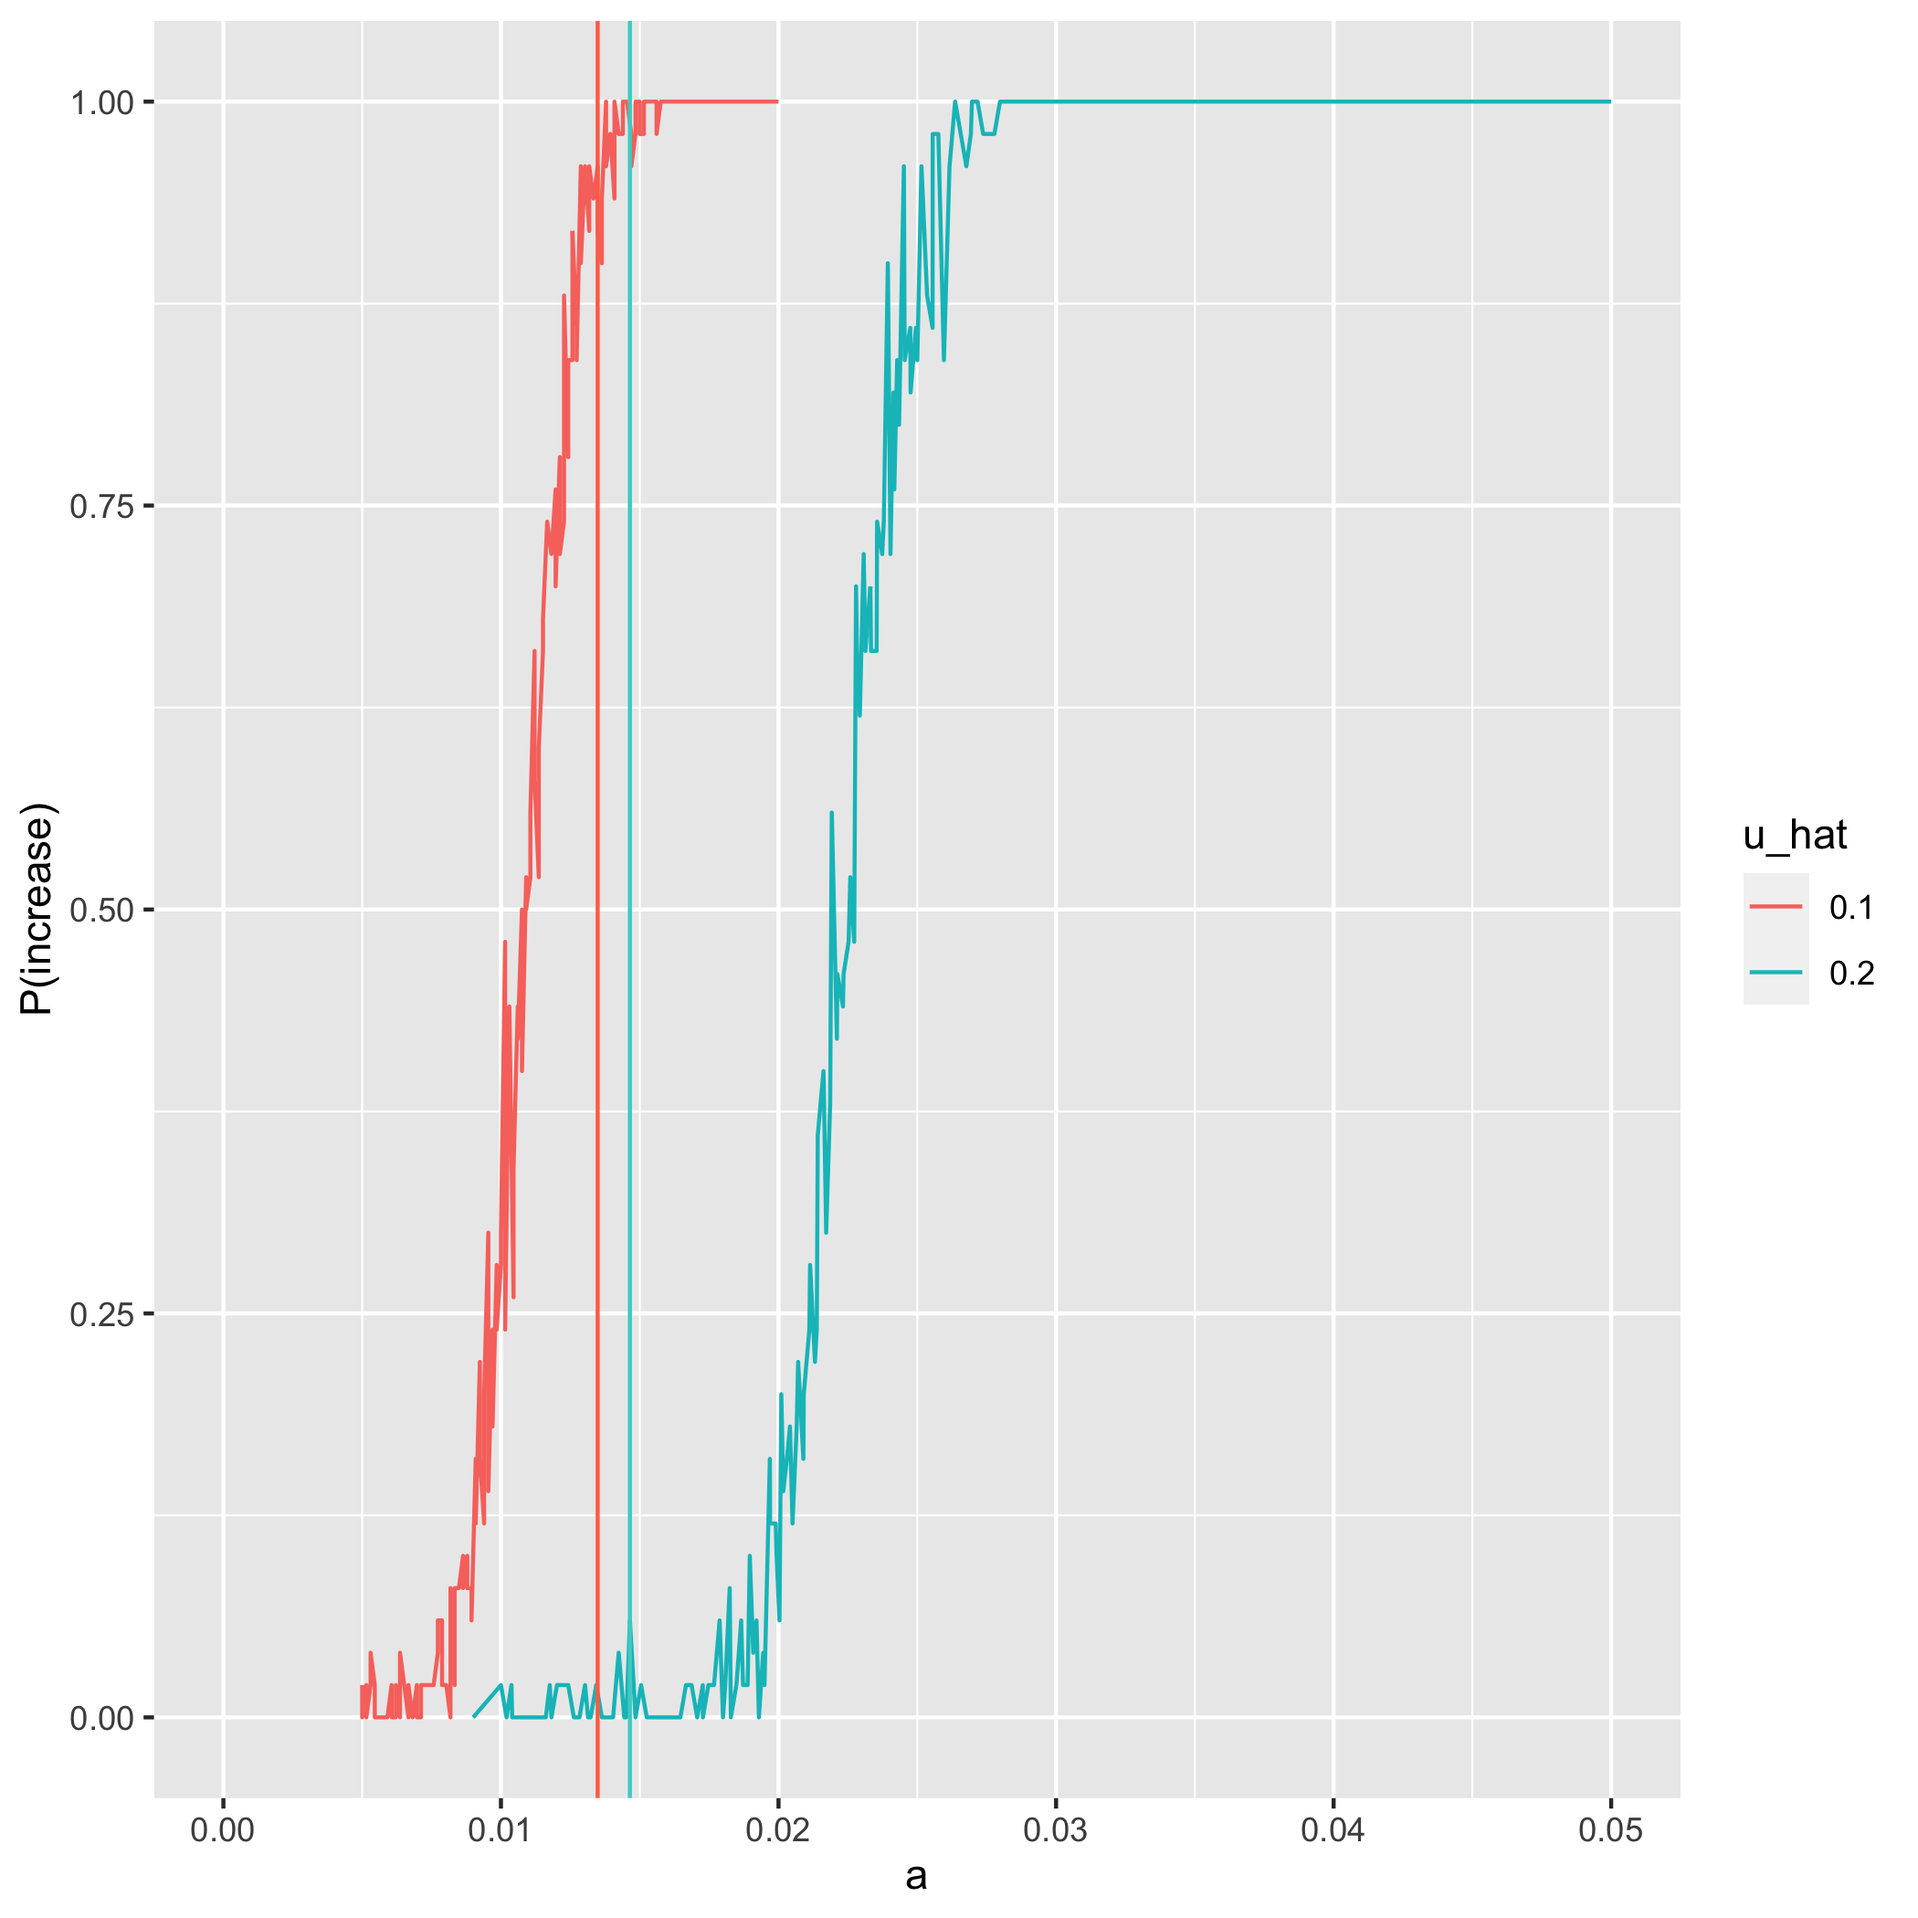
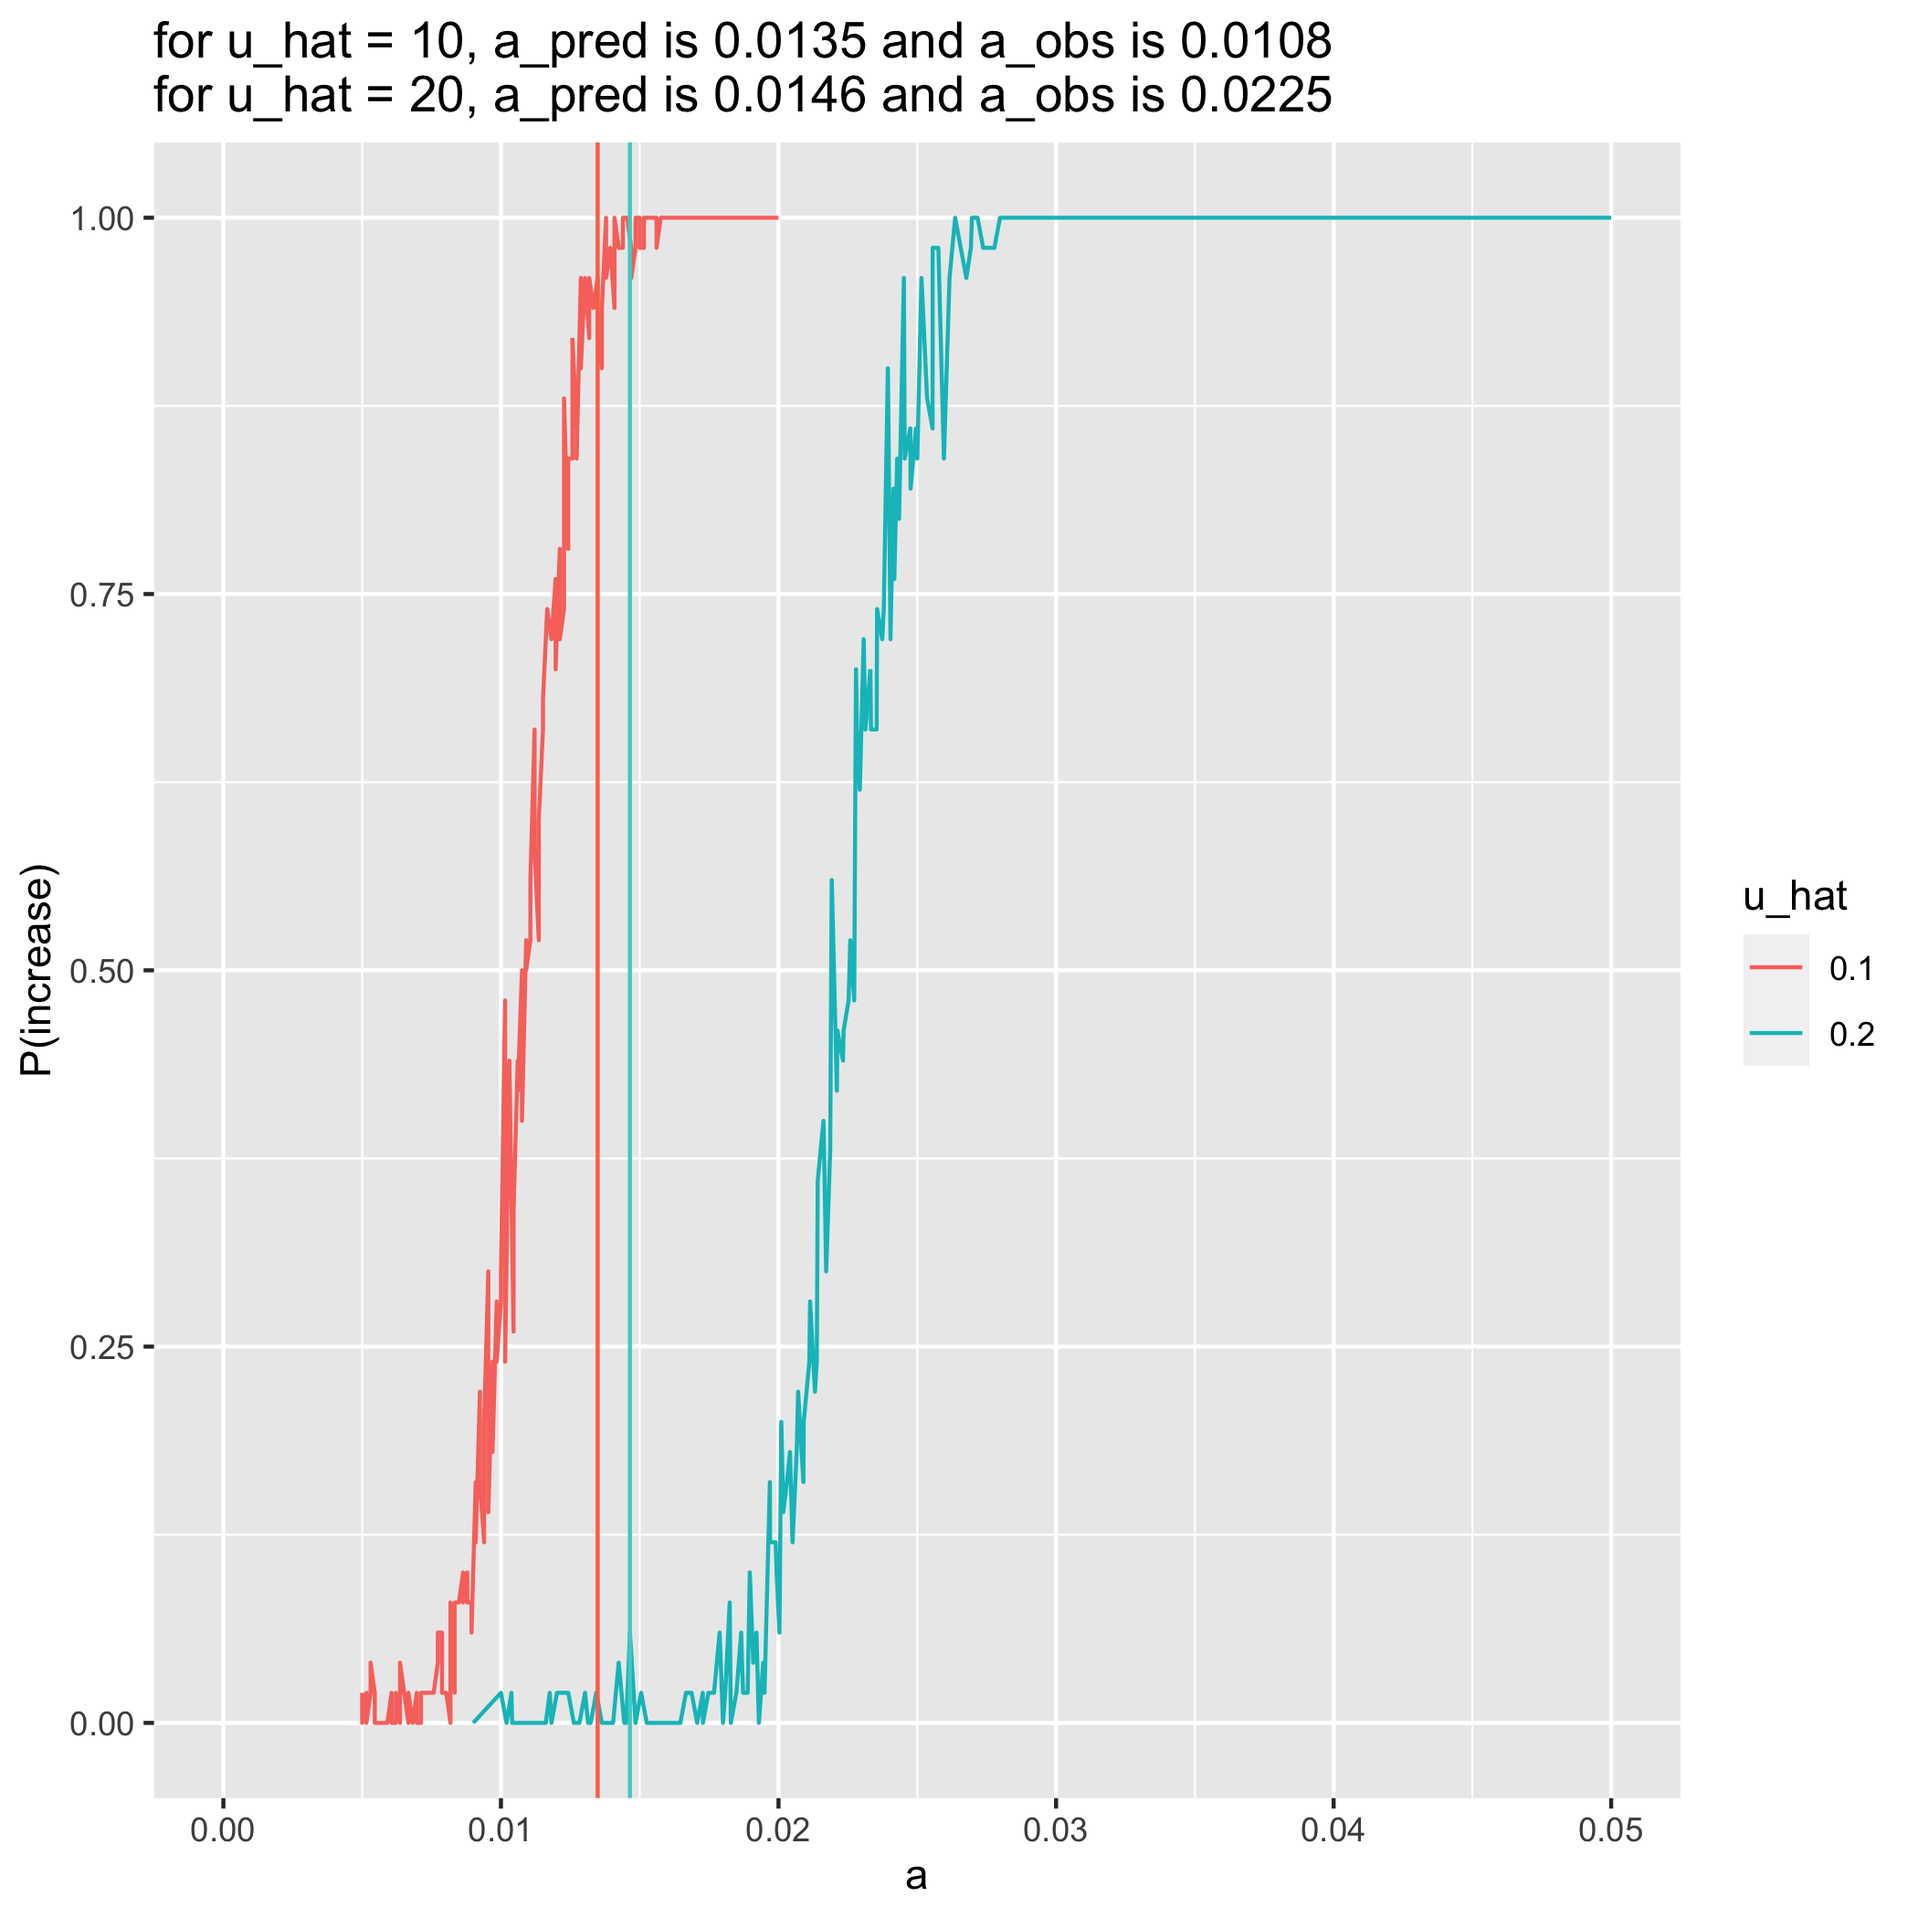
figs

diff --git a/cluster/uhat_comparison.md b/cluster/uhat_comparison.md
@@ -62,7 +62,7 @@ compiled_plot = ggplot(data = compiled, aes(x = a, y = p_increase, color = u_hat
   xlim(0, 0.05) +
   geom_vline(xintercept = obs_vs_pred_u10$a_pred, color = "coral1") +
   geom_vline(xintercept = obs_vs_pred_u20$a_pred, color = "mediumturquoise") +
-  labs(title = paste0("for u_hat = 10, a_pred is ", round(obs_vs_pred_u10$a_pred,4), " and a_obs is = ", round(obs_vs_pred_u10$a_obs, 4), "\nfor u_hat = 20, a_pred is ", round(obs_vs_pred_u20$a_pred,4), " and a_obs is ", round(obs_vs_pred_u20$a_obs,4)))
+  labs(title = paste0("for u_hat = 10, a_pred is ", round(obs_vs_pred_u10$a_pred,4), " and a_obs is ", round(obs_vs_pred_u10$a_obs, 4), "\nfor u_hat = 20, a_pred is ", round(obs_vs_pred_u20$a_pred,4), " and a_obs is ", round(obs_vs_pred_u20$a_obs,4)))
 
 #ggsave(filename = "/Users/isabelkim/Desktop/year2/underdominance/reaction-diffusion/cluster/uhat20_vs_uhat10.png", plot = compiled_plot)
 
@@ -72,3 +72,28 @@ compiled_plot
     ## Warning: Removed 29 row(s) containing missing values (geom_path).
 
 ![](uhat_comparison_files/figure-gfm/unnamed-chunk-1-1.png)<!-- -->
+
+It makes sense that when the invasion frequency is lower, a smaller
+release area is required in order for the drive to spread – this is why
+the coral line (uhat=10) is behind the blue line (uhat=20). The observed
+values of a that cause P(increase)=50% are about 0.01 apart. However,
+the predicted values of a are way too close. delta should be more
+sensitive to changes in u_hat.
+
+## a vs delta for different u_hat
+
+``` r
+compiled_delta_plot = ggplot(data = compiled, aes(x = a, y = delta, color = u_hat)) +
+  geom_line() +
+  xlab("a") +
+  ylab("P(increase)") +
+  labs(title = paste0("for u_hat = 10, a_pred is ", round(obs_vs_pred_u10$a_pred,4), " and a_obs is ", round(obs_vs_pred_u10$a_obs, 4), "\nfor u_hat = 20, a_pred is ", round(obs_vs_pred_u20$a_pred,4), " and a_obs is ", round(obs_vs_pred_u20$a_obs,4)))
+
+compiled_delta_plot
+```
+
+![](uhat_comparison_files/figure-gfm/unnamed-chunk-2-1.png)<!-- -->
+
+Where they overlap, these curves have very similar shapes, but the
+P(increase) is always higher when u_hat=10% (makes sense with a lower
+invasion frequency).
